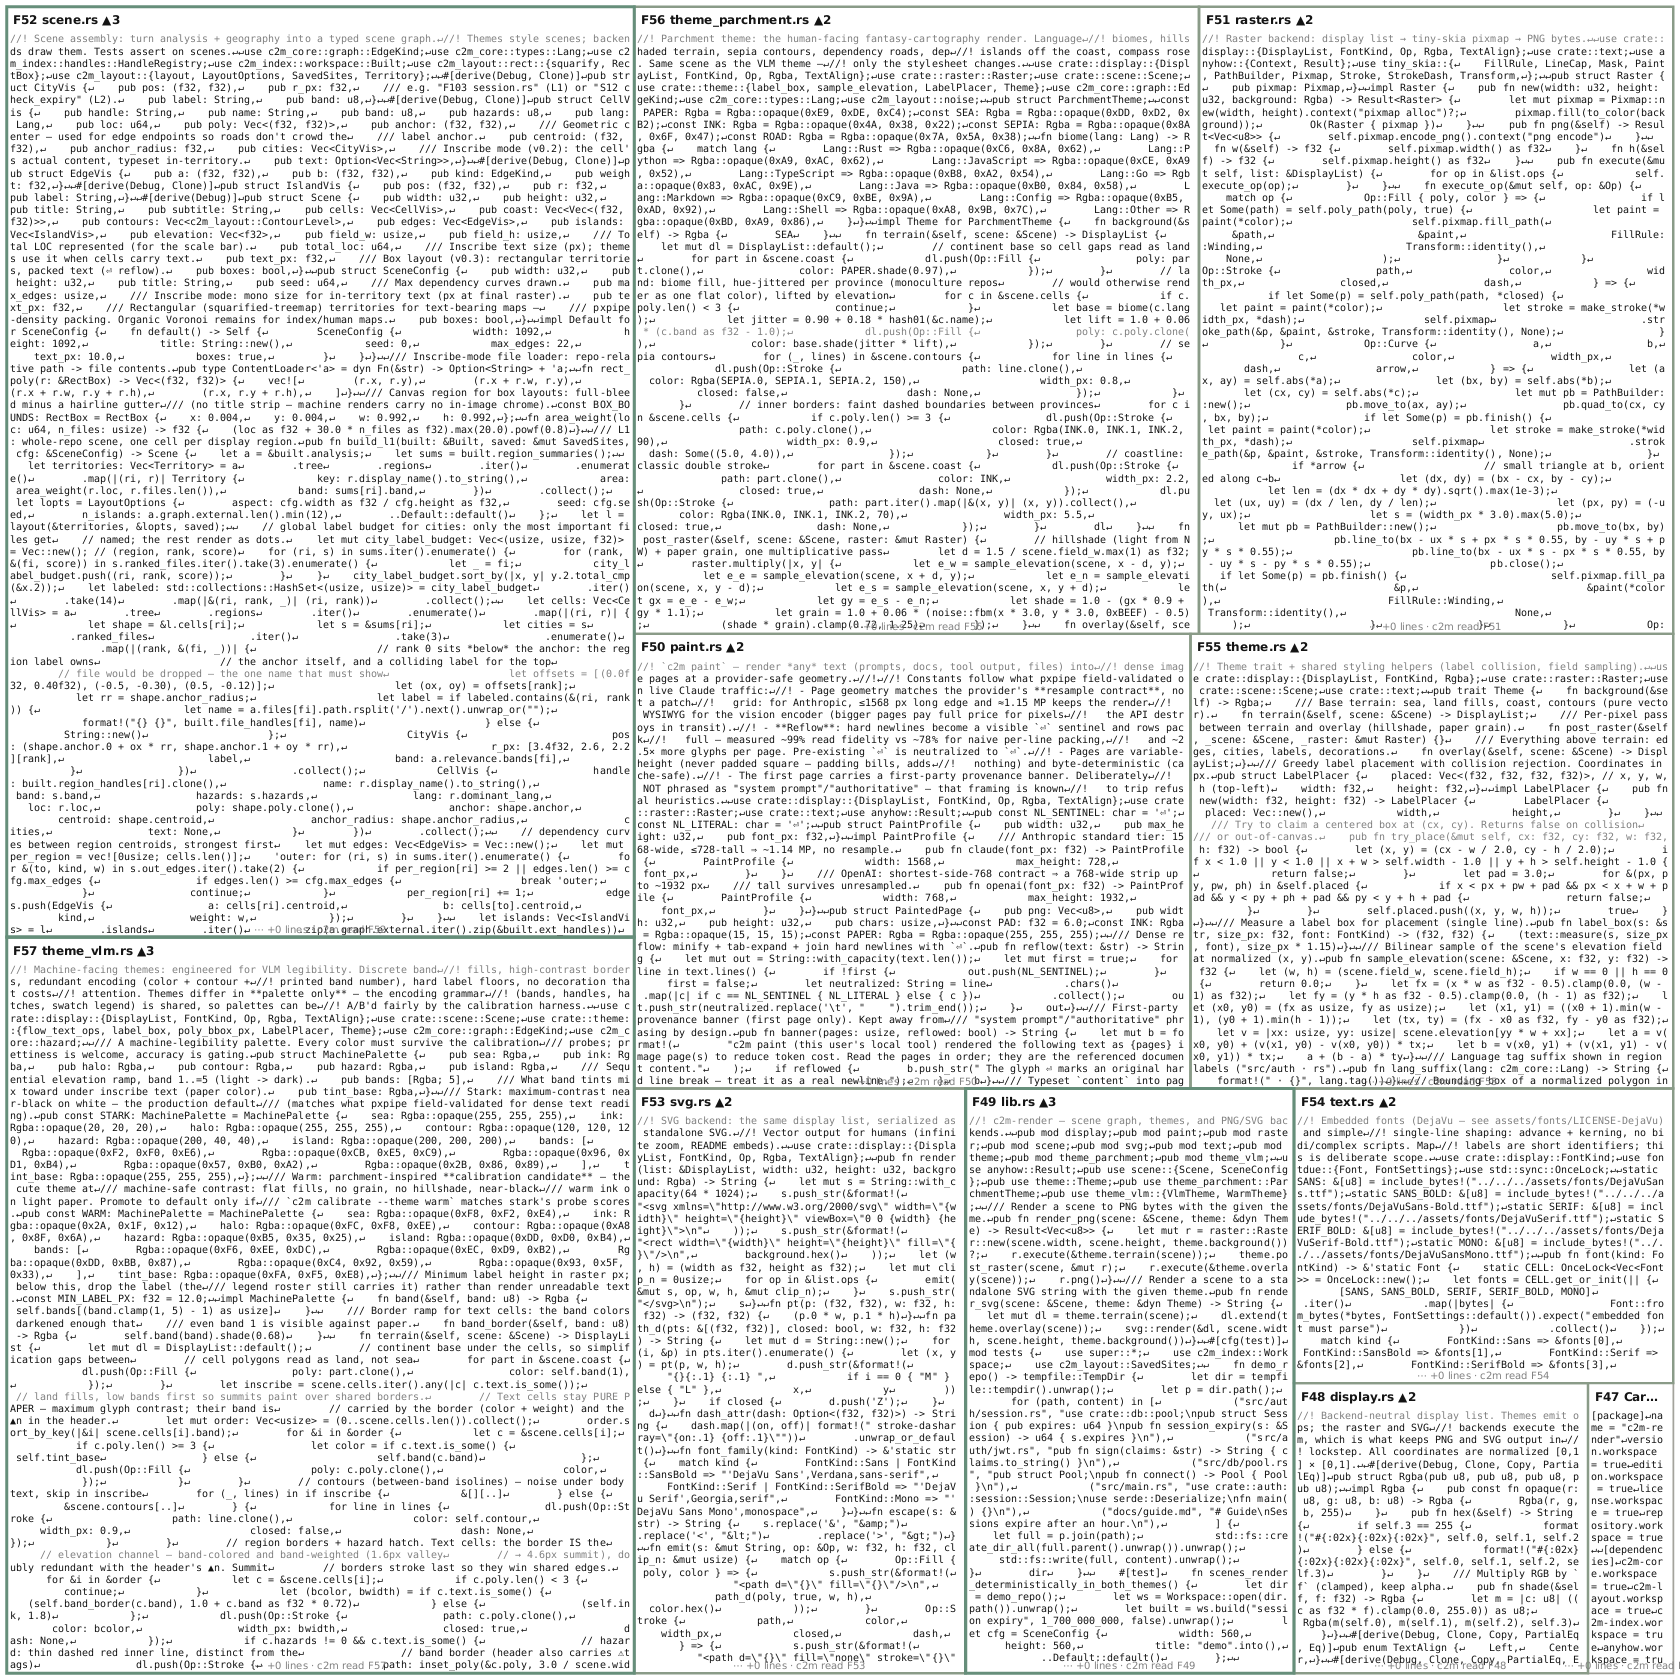
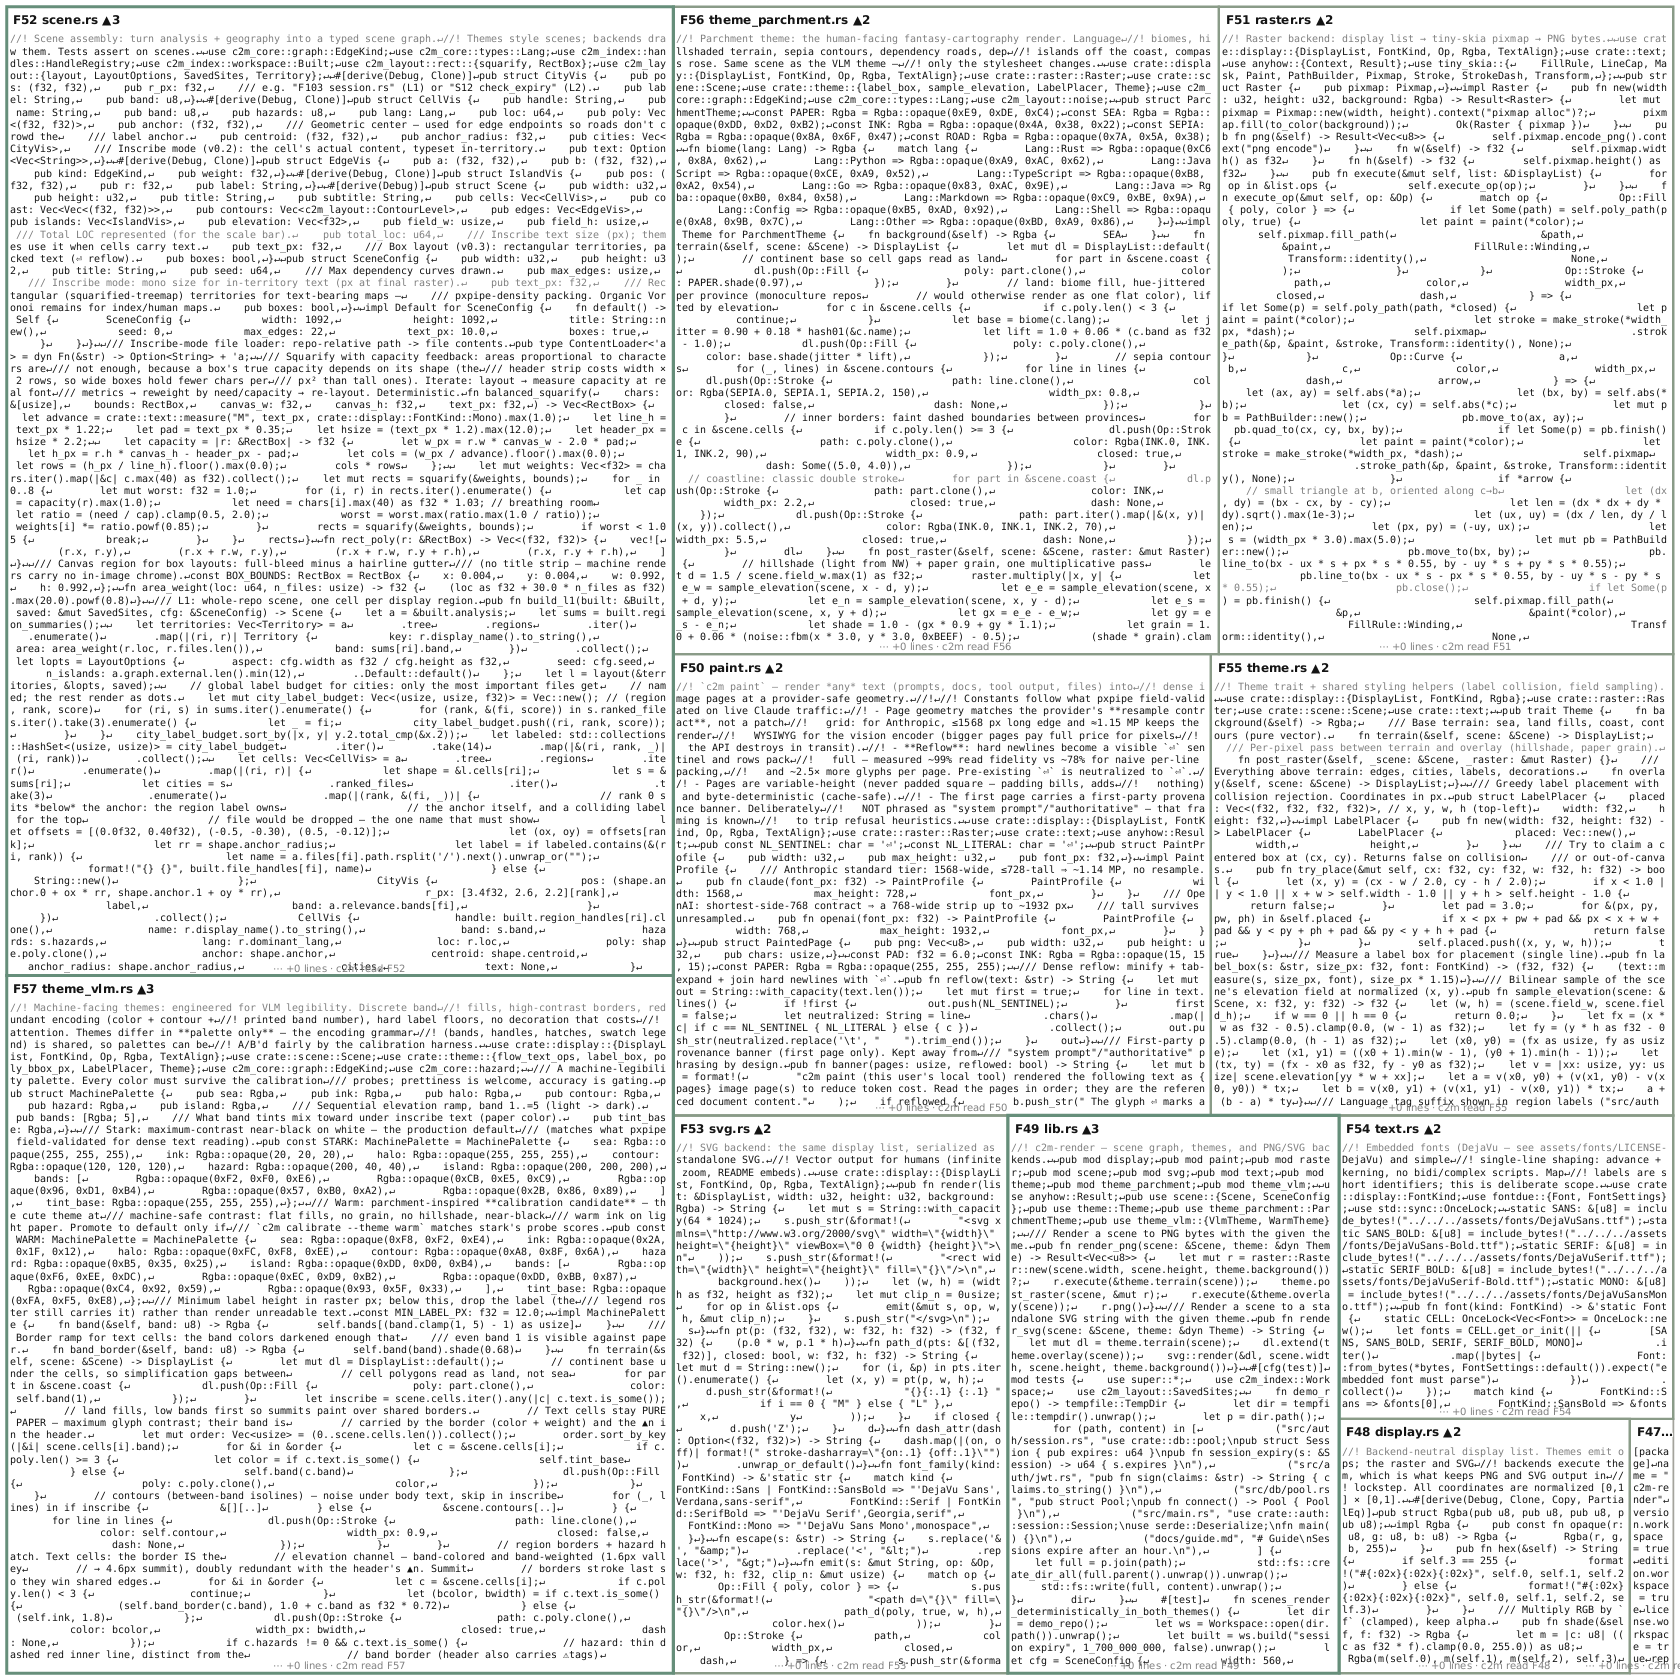
Capacity-balanced squarify: boxes hold exactly what they need
Area-proportional treemaps leave systematic slack: a box's true text
capacity depends on its SHAPE (the header strip costs width x 2 rows,
so wide boxes hold fewer chars per px^2 than tall ones), which made
wide boxes spill while tall ones sat part-empty. balanced_squarify
iterates layout -> measure per-box capacity at real font metrics ->
reweight by need/capacity (damped, clamped) -> re-layout, converging
within 5% in <=8 rounds. With per-box match enforced, the global
canvas safety factor drops 1.18 -> 1.08.

Design doc map: 2,756 -> 2,550 tokens (74% cut), every box filled to
its bottom edge.

diff --git a/crates/c2m-render/src/scene.rs b/crates/c2m-render/src/scene.rs
@@ -104,6 +104,51 @@ impl Default for SceneConfig {
 /// Inscribe-mode file loader: repo-relative path -> file contents.
 pub type ContentLoader<'a> = dyn Fn(&str) -> Option<String> + 'a;
 
+/// Squarify with capacity feedback: areas proportional to characters are
+/// not enough, because a box's true capacity depends on its shape (the
+/// header strip costs width × 2 rows, so wide boxes hold fewer chars per
+/// px² than tall ones). Iterate: layout → measure capacity at real font
+/// metrics → reweight by need/capacity → re-layout. Deterministic.
+fn balanced_squarify(
+    chars: &[usize],
+    bounds: RectBox,
+    canvas_w: f32,
+    canvas_h: f32,
+    text_px: f32,
+) -> Vec<RectBox> {
+    let advance = crate::text::measure("M", text_px, crate::display::FontKind::Mono).max(1.0);
+    let line_h = text_px * 1.22;
+    let pad = text_px * 0.35;
+    let hsize = (text_px * 1.2).max(12.0);
+    let header_px = hsize * 2.2;
+
+    let capacity = |r: &RectBox| -> f32 {
+        let w_px = r.w * canvas_w - 2.0 * pad;
+        let h_px = r.h * canvas_h - header_px - pad;
+        let cols = (w_px / advance).floor().max(0.0);
+        let rows = (h_px / line_h).floor().max(0.0);
+        cols * rows
+    };
+
+    let mut weights: Vec<f32> = chars.iter().map(|&c| c.max(40) as f32).collect();
+    let mut rects = squarify(&weights, bounds);
+    for _ in 0..8 {
+        let mut worst: f32 = 1.0;
+        for (i, r) in rects.iter().enumerate() {
+            let cap = capacity(r).max(1.0);
+            let need = chars[i].max(40) as f32 * 1.03; // breathing room
+            let ratio = (need / cap).clamp(0.5, 2.0);
+            worst = worst.max(ratio.max(1.0 / ratio));
+            weights[i] *= ratio.powf(0.85);
+        }
+        rects = squarify(&weights, bounds);
+        if worst < 1.05 {
+            break;
+        }
+    }
+    rects
+}
+
 fn rect_poly(r: &RectBox) -> Vec<(f32, f32)> {
     vec![
         (r.x, r.y),
@@ -349,11 +394,14 @@ pub fn build_doc(sections: &[DocSection], cfg: &SceneConfig) -> Scene {
 /// Box layout for documents: each section is a rectangle sized by its
 /// text, packed edge-to-edge (squarified treemap), content ↵-reflowed.
 fn build_doc_boxes(sections: &[DocSection], cfg: &SceneConfig) -> Scene {
-    let weights: Vec<f32> = sections
-        .iter()
-        .map(|s| s.text.len() as f32 + 600.0)
-        .collect();
-    let rects = squarify(&weights, BOX_BOUNDS);
+    let chars: Vec<usize> = sections.iter().map(|s| s.text.len()).collect();
+    let rects = balanced_squarify(
+        &chars,
+        BOX_BOUNDS,
+        cfg.width as f32,
+        cfg.height as f32,
+        cfg.text_px,
+    );
     let cells: Vec<CellVis> = sections
         .iter()
         .zip(&rects)
@@ -431,8 +479,14 @@ pub fn build_l2(
                         .unwrap_or_default()
                 })
                 .collect();
-            let weights: Vec<f32> = sources.iter().map(|s| s.len() as f32 + 500.0).collect();
-            let rects = squarify(&weights, BOX_BOUNDS);
+            let chars: Vec<usize> = sources.iter().map(|s| s.len()).collect();
+            let rects = balanced_squarify(
+                &chars,
+                BOX_BOUNDS,
+                cfg.width as f32,
+                cfg.height as f32,
+                cfg.text_px,
+            );
             let cells: Vec<CellVis> = shown
                 .iter()
                 .zip(&rects)

diff --git a/crates/c2m-cli/src/ops.rs b/crates/c2m-cli/src/ops.rs
@@ -574,7 +574,7 @@ fn fit_budget(chars: usize, n_boxes: usize, font_px: f32, budget: u32) -> u32 {
     let advance = c2m_render::text::measure("M", font_px, c2m_render::display::FontKind::Mono);
     let line_h = font_px * 1.22;
     let header_px2 = (font_px * 1.2 * 2.4) * 420.0; // header strip per box
-    let px2 = chars as f32 * advance * line_h * 1.18 + n_boxes as f32 * header_px2;
+    let px2 = chars as f32 * advance * line_h * 1.08 + n_boxes as f32 * header_px2;
     ((px2 / 750.0) as u32).clamp(500, budget)
 }
 